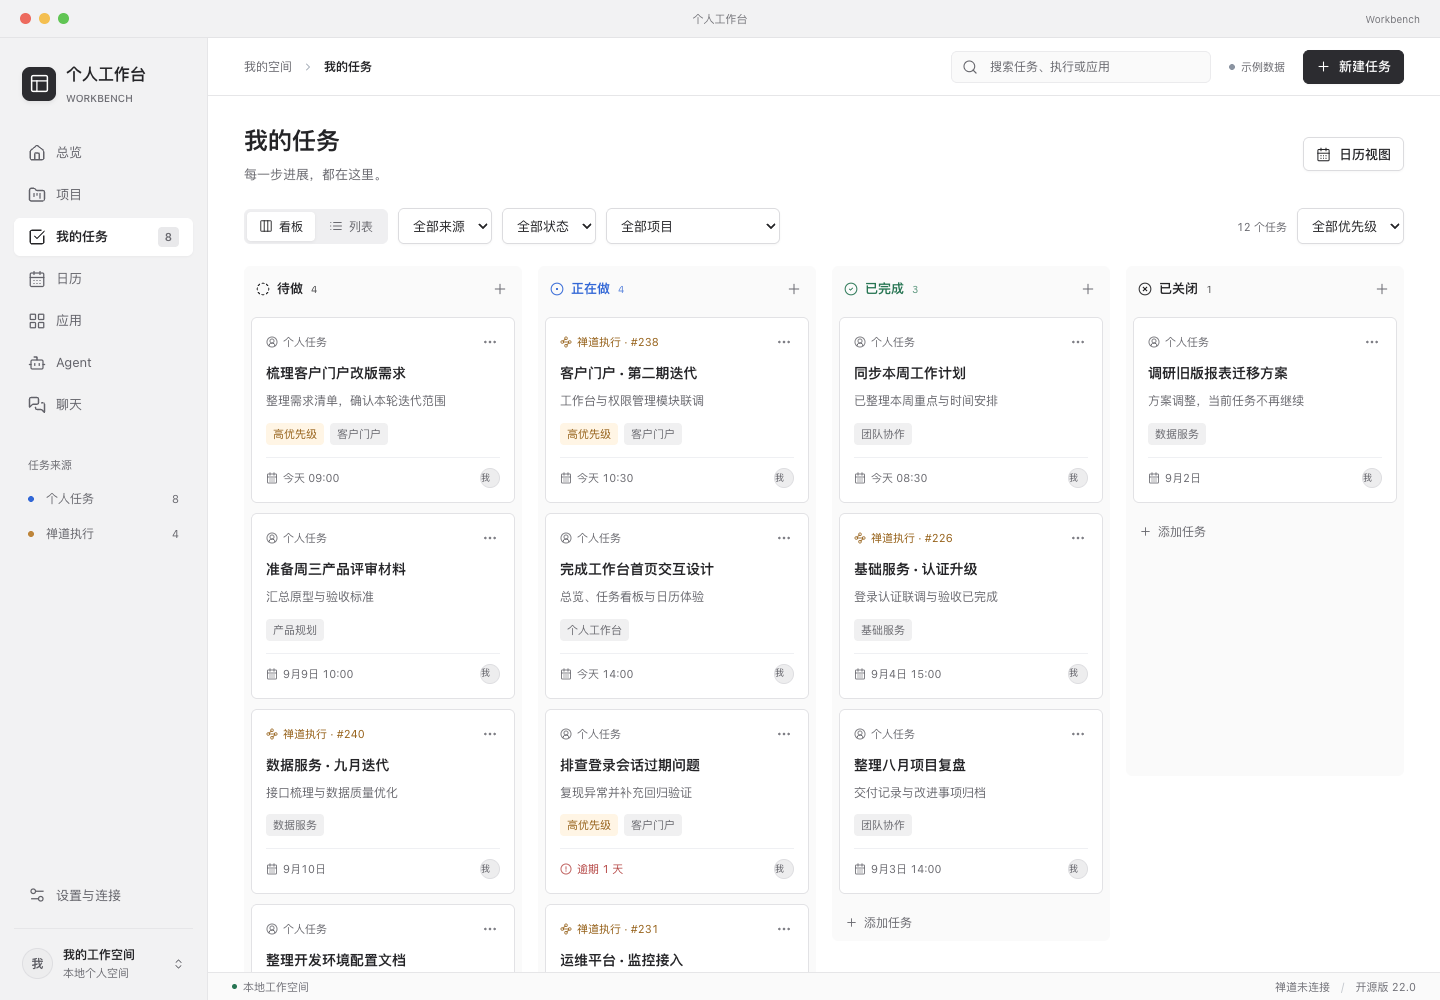
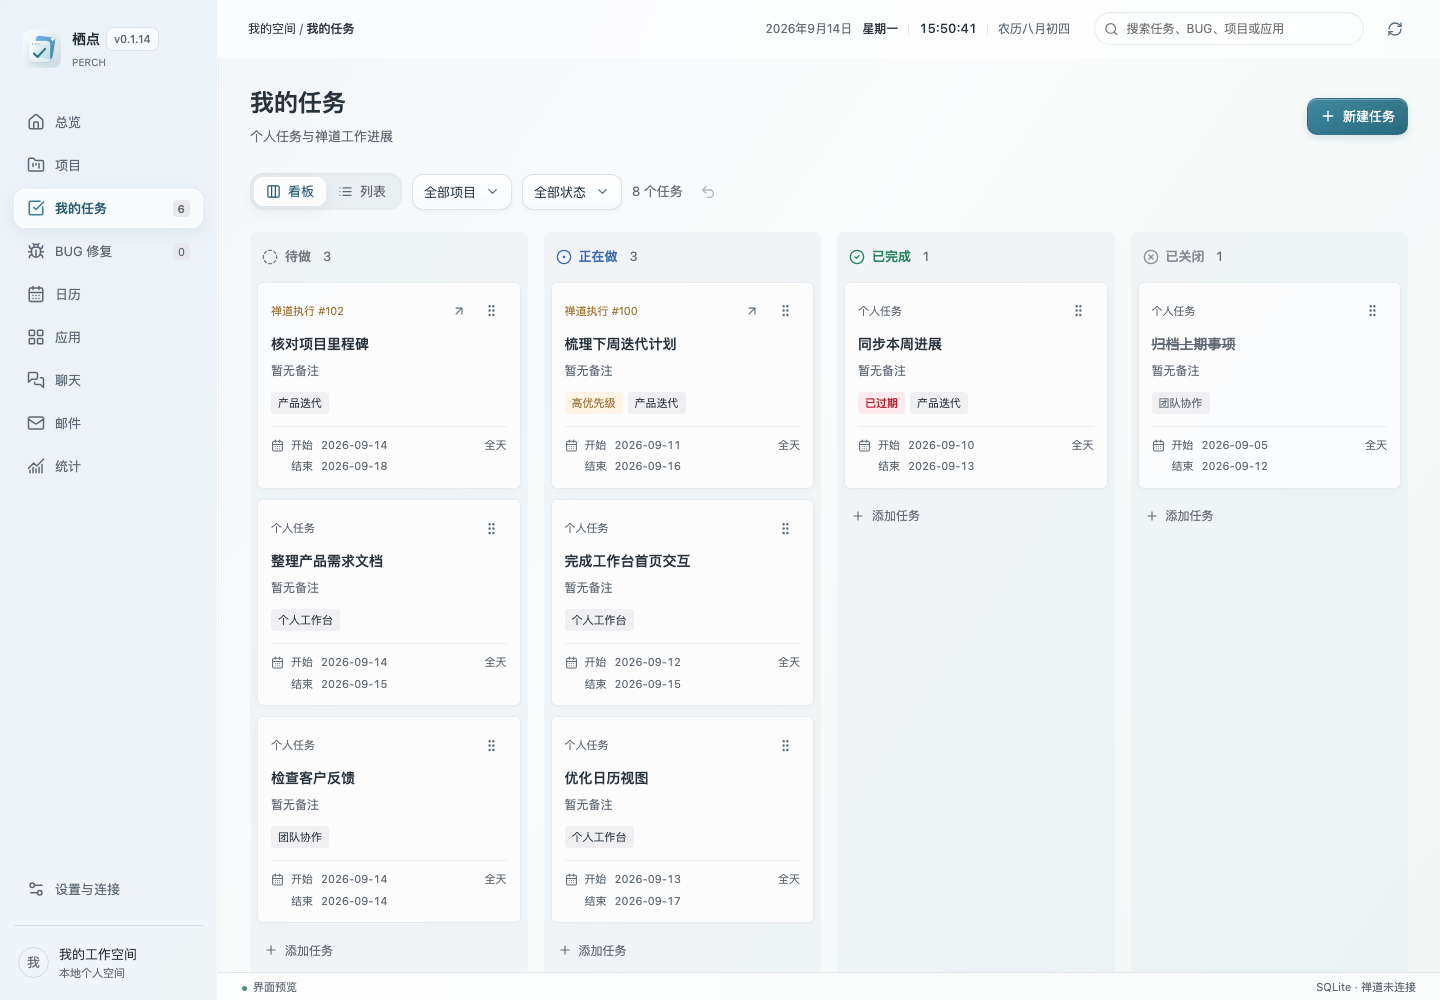
修复：宣传页展示当前应用界面截图

diff --git a/docs/styles.css b/docs/styles.css
@@ -1,3 +1,5 @@
 @import url('https://fonts.googleapis.com/css2?family=DM+Sans:wght@400;500;600;700&family=Noto+Sans+SC:wght@400;500;600;700&display=swap');
-:root{--bg:#f4f6f5;--surface:rgba(255,255,255,.72);--ink:#142321;--muted:#60716d;--line:#dbe4e1;--accent:#167d73;--accent-2:#dff1eb;--shadow:0 24px 70px rgba(25,60,55,.13)}*{box-sizing:border-box}html{scroll-behavior:smooth}body{margin:0;background:var(--bg);color:var(--ink);font-family:'DM Sans','Noto Sans SC',sans-serif;line-height:1.6}body:before{content:'';position:fixed;inset:0;pointer-events:none;background:radial-gradient(circle at 80% 4%,rgba(150,216,198,.28),transparent 35%),radial-gradient(circle at 0 48%,rgba(210,231,225,.34),transparent 32%)}a{color:inherit;text-decoration:none}.site-header{position:sticky;top:0;z-index:10;height:76px;padding:0 clamp(20px,5vw,80px);display:flex;align-items:center;justify-content:space-between;background:rgba(244,246,245,.78);backdrop-filter:blur(18px);border-bottom:1px solid var(--line)}.brand{display:flex;align-items:center;gap:10px}.brand img{width:31px;height:31px}.brand b{display:block;font-size:16px;line-height:1.1}.brand small{display:block;color:var(--muted);font-size:9px;letter-spacing:.18em}nav{display:flex;align-items:center;gap:28px;font-size:13px;color:var(--muted)}nav a:hover,.text-link:hover,footer a:hover{color:var(--accent)}nav .github{color:var(--ink);font-weight:600}.theme-toggle{border:1px solid var(--line);border-radius:50%;background:var(--surface);width:34px;height:34px;color:var(--muted);cursor:pointer;font-size:16px}.hero{min-height:calc(100svh - 76px);padding:clamp(55px,9vw,130px) clamp(20px,7vw,110px);display:grid;grid-template-columns:minmax(280px,.8fr) minmax(400px,1.2fr);gap:6vw;align-items:center}.eyebrow{font-size:11px;letter-spacing:.19em;color:var(--accent);font-weight:700;margin:0 0 22px}.hero h1{font-size:clamp(42px,5.5vw,82px);letter-spacing:-.065em;line-height:1.08;margin:0 0 25px;max-width:650px}.hero h1 em,.download h2 em{font-style:normal;color:var(--accent)}.lede{font-size:18px;color:var(--muted);max-width:470px}.hero-actions{display:flex;gap:11px;margin:34px 0 14px}.button{display:inline-flex;align-items:center;justify-content:center;gap:10px;min-height:46px;padding:0 20px;border-radius:9px;font-size:13px;font-weight:600;border:1px solid var(--line);transition:transform .2s,box-shadow .2s}.button:hover{transform:translateY(-2px);box-shadow:0 10px 25px rgba(22,80,70,.12)}.button.primary{background:var(--accent);color:#fff;border-color:var(--accent)}.button.quiet{background:rgba(255,255,255,.45)}.microcopy{font-size:11px;color:var(--muted)}.hero-visual{position:relative;min-height:530px;display:flex;align-items:center;justify-content:center}.glow{position:absolute;width:75%;height:75%;border-radius:50%;background:radial-gradient(circle,rgba(100,191,165,.35),transparent 68%);filter:blur(25px)}.window-frame{position:relative;width:min(100%,690px);border:1px solid rgba(255,255,255,.9);border-radius:17px;background:var(--surface);box-shadow:var(--shadow);overflow:hidden;transform:rotate(2deg);animation:float 6s ease-in-out infinite}.window-bar{height:39px;display:flex;align-items:center;gap:6px;padding:0 15px;border-bottom:1px solid var(--line);font-size:10px;color:var(--muted)}.window-bar i{width:8px;height:8px;border-radius:50%;background:#d5dfdc}.window-bar span{margin-left:12px}.window-bar b{margin-left:auto;font-weight:500}.window-frame img{display:block;width:100%;height:auto}.float-note{position:absolute;right:-4%;bottom:7%;padding:17px 20px;border:1px solid rgba(255,255,255,.9);border-radius:12px;background:rgba(255,255,255,.8);box-shadow:var(--shadow);backdrop-filter:blur(16px)}.float-note span,.float-note small{display:block;color:var(--muted);font-size:11px}.float-note strong{display:block;color:var(--accent);font-size:28px;line-height:1.2}.intro{padding:145px 20px 125px;max-width:780px;margin:auto}.intro h2,.section-heading h2,.workflow h2,.download h2{font-size:clamp(35px,4.5vw,61px);line-height:1.1;letter-spacing:-.055em;margin:0 0 23px}.intro>p:last-child{font-size:18px;color:var(--muted);max-width:520px}.feature-section,.screens{padding:90px clamp(20px,7vw,110px)}.section-heading{display:flex;align-items:end;justify-content:space-between;gap:25px;margin-bottom:55px}.section-heading h2{max-width:650px;margin:0}.feature-grid{display:grid;grid-template-columns:repeat(3,1fr);border-top:1px solid var(--line)}.feature-grid article{padding:27px 26px 30px 0;border-bottom:1px solid var(--line);min-height:190px}.feature-grid article:nth-child(3n+2),.feature-grid article:nth-child(3n+3){padding-left:26px;border-left:1px solid var(--line)}.feature-grid span{color:var(--accent);font-size:12px}.feature-grid h3{font-size:20px;margin:22px 0 7px}.feature-grid p,.workflow-copy>p,.download>div>p:last-child{color:var(--muted);font-size:14px;max-width:330px}.workflow{margin:90px 0;padding:95px clamp(20px,10vw,160px);display:grid;grid-template-columns:1fr 1fr;gap:9vw;align-items:center;background:var(--ink);color:#eaf4f0}.workflow-copy>p{color:#9db3ad}.workflow .eyebrow{color:#8dd1bf}.text-link{display:inline-block;margin-top:22px;color:#9ee1d0;font-size:13px}.workflow-art{position:relative;width:min(100%,470px);aspect-ratio:1;border:1px solid rgba(200,240,228,.22);border-radius:50%}.orbit{position:absolute;border:1px solid rgba(200,240,228,.2);border-radius:50%;inset:14%}.orbit-b{inset:29%}.orbit-core{position:absolute;inset:40%;display:grid;place-items:center;border-radius:50%;background:#dff1eb;box-shadow:0 0 55px rgba(130,220,192,.3)}.orbit-core img{width:52%;height:52%}.orbit-label{position:absolute;padding:7px 12px;border-radius:20px;background:rgba(255,255,255,.1);font-size:11px;color:#c4ddd6}.label-a{top:5%;left:45%}.label-b{right:3%;top:48%}.label-c{bottom:5%;left:42%}.label-d{left:2%;top:48%}.screen-showcase{display:grid;grid-template-columns:1.45fr 1fr;gap:18px}.screen-showcase figure{margin:0}.screen-showcase img{display:block;width:100%;border:1px solid var(--line);border-radius:13px;box-shadow:0 12px 35px rgba(30,60,55,.09)}figcaption{padding:15px 2px;display:flex;justify-content:space-between;gap:10px;font-size:12px}figcaption span{color:var(--muted)}.screen-stack{display:grid;gap:18px}.screen-stack img{aspect-ratio:1.4;object-fit:cover}.download{margin:80px clamp(20px,7vw,110px) 120px;padding:75px 8%;display:grid;grid-template-columns:1fr 1fr;gap:8vw;align-items:center;background:var(--accent-2);border-radius:20px}.download h2{font-size:clamp(34px,4vw,56px)}.download-panel{padding:26px;border-left:1px solid rgba(22,125,115,.25)}.release-status{font-size:13px;color:var(--muted);margin-bottom:22px}.download-actions{display:flex;gap:10px;flex-wrap:wrap}.button.secondary{background:#fff;color:var(--ink)}.button.disabled{opacity:.45;pointer-events:none}.release-link{display:inline-block;margin-top:18px;color:var(--accent);font-size:12px}footer{padding:38px clamp(20px,7vw,110px);border-top:1px solid var(--line);display:flex;align-items:center;gap:30px;color:var(--muted);font-size:12px}footer .brand{color:var(--ink)}footer p{margin-right:auto}footer div:last-of-type{display:flex;gap:18px}@keyframes float{0%,100%{transform:rotate(2deg) translateY(0)}50%{transform:rotate(1deg) translateY(-10px)}@media(prefers-reduced-motion:reduce){html{scroll-behavior:auto}.window-frame{animation:none}}.dark{--bg:#111a18;--surface:rgba(28,42,39,.8);--ink:#eaf4f0;--muted:#9cb3ac;--line:#2d403b;--accent:#79cbbb;--accent-2:#193b35;--shadow:0 24px 70px rgba(0,0,0,.35)}.dark .site-header{background:rgba(17,26,24,.8)}.dark .button.secondary,.dark .float-note{background:#243933;color:var(--ink)}
+:root{--bg:#f4f6f5;--surface:rgba(255,255,255,.72);--ink:#142321;--muted:#60716d;--line:#dbe4e1;--accent:#167d73;--accent-2:#dff1eb;--shadow:0 24px 70px rgba(25,60,55,.13)}*{box-sizing:border-box}html{scroll-behavior:smooth}body{margin:0;background:var(--bg);color:var(--ink);font-family:'DM Sans','Noto Sans SC',sans-serif;line-height:1.6}body:before{content:'';position:fixed;inset:0;pointer-events:none;background:radial-gradient(circle at 80% 4%,rgba(150,216,198,.28),transparent 35%),radial-gradient(circle at 0 48%,rgba(210,231,225,.34),transparent 32%)}a{color:inherit;text-decoration:none}.site-header{position:sticky;top:0;z-index:10;height:76px;padding:0 clamp(20px,5vw,80px);display:flex;align-items:center;justify-content:space-between;background:rgba(244,246,245,.78);backdrop-filter:blur(18px);border-bottom:1px solid var(--line)}.brand{display:flex;align-items:center;gap:10px}.brand img{width:31px;height:31px}.brand b{display:block;font-size:16px;line-height:1.1}.brand small{display:block;color:var(--muted);font-size:9px;letter-spacing:.18em}nav{display:flex;align-items:center;gap:28px;font-size:13px;color:var(--muted)}nav a:hover,.text-link:hover,footer a:hover{color:var(--accent)}nav .github{color:var(--ink);font-weight:600}.theme-toggle{border:1px solid var(--line);border-radius:50%;background:var(--surface);width:34px;height:34px;color:var(--muted);cursor:pointer;font-size:16px}.hero{min-height:calc(100svh - 76px);padding:clamp(55px,9vw,130px) clamp(20px,7vw,110px);display:grid;grid-template-columns:minmax(280px,.8fr) minmax(400px,1.2fr);gap:6vw;align-items:center}.eyebrow{font-size:11px;letter-spacing:.19em;color:var(--accent);font-weight:700;margin:0 0 22px}.hero h1{font-size:clamp(42px,5.5vw,82px);letter-spacing:-.065em;line-height:1.08;margin:0 0 25px;max-width:650px}.hero h1 em,.download h2 em{font-style:normal;color:var(--accent)}.lede{font-size:18px;color:var(--muted);max-width:470px}.hero-actions{display:flex;gap:11px;margin:34px 0 14px}.button{display:inline-flex;align-items:center;justify-content:center;gap:10px;min-height:46px;padding:0 20px;border-radius:9px;font-size:13px;font-weight:600;border:1px solid var(--line);transition:transform .2s,box-shadow .2s}.button:hover{transform:translateY(-2px);box-shadow:0 10px 25px rgba(22,80,70,.12)}.button.primary{background:var(--accent);color:#fff;border-color:var(--accent)}.button.quiet{background:rgba(255,255,255,.45)}.microcopy{font-size:11px;color:var(--muted)}.hero-visual{position:relative;min-height:530px;display:flex;align-items:center;justify-content:center}.glow{position:absolute;width:75%;height:75%;border-radius:50%;background:radial-gradient(circle,rgba(100,191,165,.35),transparent 68%);filter:blur(25px)}.window-frame{position:relative;width:min(100%,690px);border:1px solid rgba(255,255,255,.9);border-radius:17px;background:var(--surface);box-shadow:var(--shadow);overflow:hidden;transform:rotate(2deg);animation:float 6s ease-in-out infinite}.window-bar{height:39px;display:flex;align-items:center;gap:6px;padding:0 15px;border-bottom:1px solid var(--line);font-size:10px;color:var(--muted)}.window-bar i{width:8px;height:8px;border-radius:50%;background:#d5dfdc}.window-bar span{margin-left:12px}.window-bar b{margin-left:auto;font-weight:500}.window-frame img{display:block;width:100%;height:auto}.float-note{position:absolute;right:-4%;bottom:7%;padding:17px 20px;border:1px solid rgba(255,255,255,.9);border-radius:12px;background:rgba(255,255,255,.8);box-shadow:var(--shadow);backdrop-filter:blur(16px)}.float-note span,.float-note small{display:block;color:var(--muted);font-size:11px}.float-note strong{display:block;color:var(--accent);font-size:28px;line-height:1.2}.intro{padding:145px 20px 125px;max-width:780px;margin:auto}.intro h2,.section-heading h2,.workflow h2,.download h2{font-size:clamp(35px,4.5vw,61px);line-height:1.1;letter-spacing:-.055em;margin:0 0 23px}.intro>p:last-child{font-size:18px;color:var(--muted);max-width:520px}.feature-section,.screens{padding:90px clamp(20px,7vw,110px)}.section-heading{display:flex;align-items:end;justify-content:space-between;gap:25px;margin-bottom:55px}.section-heading h2{max-width:650px;margin:0}.feature-grid{display:grid;grid-template-columns:repeat(3,1fr);border-top:1px solid var(--line)}.feature-grid article{padding:27px 26px 30px 0;border-bottom:1px solid var(--line);min-height:190px}.feature-grid article:nth-child(3n+2),.feature-grid article:nth-child(3n+3){padding-left:26px;border-left:1px solid var(--line)}.feature-grid span{color:var(--accent);font-size:12px}.feature-grid h3{font-size:20px;margin:22px 0 7px}.feature-grid p,.workflow-copy>p,.download>div>p:last-child{color:var(--muted);font-size:14px;max-width:330px}.workflow{margin:90px 0;padding:95px clamp(20px,10vw,160px);display:grid;grid-template-columns:1fr 1fr;gap:9vw;align-items:center;background:var(--ink);color:#eaf4f0}.workflow-copy>p{color:#9db3ad}.workflow .eyebrow{color:#8dd1bf}.text-link{display:inline-block;margin-top:22px;color:#9ee1d0;font-size:13px}.workflow-art{position:relative;width:min(100%,470px);aspect-ratio:1;border:1px solid rgba(200,240,228,.22);border-radius:50%}.orbit{position:absolute;border:1px solid rgba(200,240,228,.2);border-radius:50%;inset:14%}.orbit-b{inset:29%}.orbit-core{position:absolute;inset:40%;display:grid;place-items:center;border-radius:50%;background:#dff1eb;box-shadow:0 0 55px rgba(130,220,192,.3)}.orbit-core img{width:52%;height:52%}.orbit-label{position:absolute;padding:7px 12px;border-radius:20px;background:rgba(255,255,255,.1);font-size:11px;color:#c4ddd6}.label-a{top:5%;left:45%}.label-b{right:3%;top:48%}.label-c{bottom:5%;left:42%}.label-d{left:2%;top:48%}.screen-showcase{display:grid;grid-template-columns:1.45fr 1fr;gap:18px}.screen-showcase figure{margin:0}.screen-showcase img{display:block;width:100%;border:1px solid var(--line);border-radius:13px;box-shadow:0 12px 35px rgba(30,60,55,.09)}figcaption{padding:15px 2px;display:flex;justify-content:space-between;gap:10px;font-size:12px}figcaption span{color:var(--muted)}.screen-stack{display:grid;gap:18px}.screen-stack img{aspect-ratio:1.4;object-fit:cover}.download{margin:80px clamp(20px,7vw,110px) 120px;padding:75px 8%;display:grid;grid-template-columns:1fr 1fr;gap:8vw;align-items:center;background:var(--accent-2);border-radius:20px}.download h2{font-size:clamp(34px,4vw,56px)}.download-panel{padding:26px;border-left:1px solid rgba(22,125,115,.25)}.release-status{font-size:13px;color:var(--muted);margin-bottom:22px}.download-actions{display:flex;gap:10px;flex-wrap:wrap}.button.secondary{background:#fff;color:var(--ink)}.button.disabled{opacity:.45;pointer-events:none}.release-link{display:inline-block;margin-top:18px;color:var(--accent);font-size:12px}footer{padding:38px clamp(20px,7vw,110px);border-top:1px solid var(--line);display:flex;align-items:center;gap:30px;color:var(--muted);font-size:12px}footer .brand{color:var(--ink)}footer p{margin-right:auto}footer div:last-of-type{display:flex;gap:18px}@keyframes float{0%,100%{transform:rotate(2deg) translateY(0)}50%{transform:rotate(1deg) translateY(-10px)}}@media(prefers-reduced-motion:reduce){html{scroll-behavior:auto}.window-frame{animation:none}}.dark{--bg:#111a18;--surface:rgba(28,42,39,.8);--ink:#eaf4f0;--muted:#9cb3ac;--line:#2d403b;--accent:#79cbbb;--accent-2:#193b35;--shadow:0 24px 70px rgba(0,0,0,.35)}.dark .site-header{background:rgba(17,26,24,.8)}.dark .button.secondary,.dark .float-note{background:#243933;color:var(--ink)}
 @media(max-width:800px){nav{display:none}.site-header{height:64px}.hero{grid-template-columns:1fr;padding-top:65px;min-height:auto}.hero h1{font-size:45px}.hero-visual{min-height:300px}.float-note{right:0;bottom:0}.intro{padding:100px 20px 80px}.feature-grid{grid-template-columns:1fr}.feature-grid article,.feature-grid article:nth-child(3n+2),.feature-grid article:nth-child(3n+3){padding:25px 0;border-left:0}.workflow{grid-template-columns:1fr;padding:70px 20px}.workflow-art{margin:10px auto 0}.screen-showcase,.download{grid-template-columns:1fr}.download{margin-left:20px;margin-right:20px;padding:45px 25px;gap:35px}.download-panel{border-left:0;border-top:1px solid rgba(22,125,115,.25);padding:25px 0 0}footer{flex-wrap:wrap;gap:15px}footer p{width:100%;order:3;margin:0}.section-heading{display:block}}
+.screen-strip{display:grid;grid-template-columns:repeat(4,minmax(0,1fr));gap:18px;margin-top:28px}.screen-strip figure{margin:0;min-width:0}.screen-strip img{display:block;width:100%;aspect-ratio:1.55;object-fit:cover;border:1px solid var(--line);border-radius:13px;box-shadow:0 10px 28px rgba(30,60,55,.07)}
+@media(max-width:800px){.screen-strip{grid-template-columns:repeat(2,minmax(0,1fr));gap:16px}}

diff --git a/docs/index.html b/docs/index.html
@@ -4,10 +4,10 @@
 <body>
 <header class="site-header"><a class="brand" href="#top"><img src="assets/perch-logo.svg" alt="栖点 Logo"><span><b>栖点</b><small>PERCH</small></span></a><nav aria-label="主导航"><a href="#features">能力</a><a href="#workflow">工作方式</a><a href="#screens">界面</a><a href="#download">下载</a><a class="github" href="https://github.com/tangjiale/perch" target="_blank" rel="noreferrer">GitHub ↗</a></nav><button class="theme-toggle" id="theme-toggle" aria-label="切换深色模式">◐</button></header>
 <main id="top">
-<section class="hero"><div class="hero-copy"><p class="eyebrow">PERSONAL WORKSPACE · PERCH</p><h1>把每天的工作，<em>安放在一个栖点。</em></h1><p class="lede">任务、项目、日历、禅道和 AI 助手，在一个安静清晰的工作台里自然衔接。</p><div class="hero-actions"><a class="button primary" href="#download">下载栖点 <span>↓</span></a><a class="button quiet" href="https://github.com/tangjiale/perch" target="_blank" rel="noreferrer">查看源码 ↗</a></div><p class="microcopy">macOS · Windows · 本地优先</p></div><div class="hero-visual"><div class="glow"></div><div class="window-frame"><div class="window-bar"><i></i><i></i><i></i><span>栖点 · Perch</span><b>09:41</b></div><img src="assets/screenshot-overview.png" alt="栖点总览界面预览"></div><div class="float-note"><span>今日进度</span><strong>76%</strong><small>4 项任务已完成</small></div></div></section>
+<section class="hero"><div class="hero-copy"><p class="eyebrow">PERSONAL WORKSPACE · PERCH</p><h1>把每天的工作，<em>安放在一个栖点。</em></h1><p class="lede">任务、项目、日历、禅道和 AI 助手，在一个安静清晰的工作台里自然衔接。</p><div class="hero-actions"><a class="button primary" href="#download">下载栖点 <span>↓</span></a><a class="button quiet" href="https://github.com/tangjiale/perch" target="_blank" rel="noreferrer">查看源码 ↗</a></div><p class="microcopy">macOS · Windows · 本地优先</p></div><div class="hero-visual"><div class="window-frame"><img src="assets/screenshot-overview.png" alt="栖点当前版本总览界面预览"></div></div></section>
 <section class="intro"><p class="eyebrow">ONE PLACE TO WORK</p><h2>少一点切换，<br>多一点专注。</h2><p>栖点把分散在工具、网页和聊天里的工作信息收拢起来，让你随时知道下一步该做什么。</p></section>
 <section class="feature-section" id="features"><div class="section-heading"><p class="eyebrow">CAPABILITIES</p><h2>为真实工作设计的每一处细节</h2></div><div class="feature-grid"><article><span>01</span><h3>任务与看板</h3><p>从待做、正在做，到完成和关闭。拖动就能调整状态与顺序，开始和结束时间清晰可见。</p></article><article><span>02</span><h3>项目与禅道</h3><p>同步与你有关的禅道项目、执行和 BUG，保留远端关联，也留出个人安排的自由。</p></article><article><span>03</span><h3>日历与节奏</h3><p>月、周、日视图统一呈现任务，农历、节气、法定休假和调休一目了然。</p></article><article><span>04</span><h3>AI 工作伙伴</h3><p>创建不同 Agent，选择模型、技能和知识库，在同一个聊天空间里开始工作。</p></article><article><span>05</span><h3>知识与技能</h3><p>上传文档建立知识库，导入本机技能，让常用方法随时可被调用。</p></article><article><span>06</span><h3>连接与洞察</h3><p>管理邮箱、MCP 和模型供应商，用统计图表看见工作负荷与推进趋势。</p></article></div></section>
 <section class="workflow" id="workflow"><div class="workflow-copy"><p class="eyebrow">A CALM FLOW</p><h2>从今天开始，<br>工作有了落脚点。</h2><p>打开总览，查看今天的安排；进入看板推进任务；在日历里感受节奏；需要时，让 AI 和知识库帮你继续向前。</p><a href="#screens" class="text-link">看看界面怎么工作 ↘</a></div><div class="workflow-art"><div class="orbit orbit-a"></div><div class="orbit orbit-b"></div><div class="orbit-core"><img src="assets/perch-logo.svg" alt=""></div><div class="orbit-label label-a">任务</div><div class="orbit-label label-b">项目</div><div class="orbit-label label-c">日历</div><div class="orbit-label label-d">AI</div></div></section>
-<section class="screens" id="screens"><div class="section-heading"><p class="eyebrow">INSIDE PERCH</p><h2>清晰，是一种效率。</h2></div><div class="screen-showcase"><figure class="screen-large"><img src="assets/screenshot-board.png" alt="任务看板界面"><figcaption><b>任务看板</b><span>把工作推进到下一列</span></figcaption></figure><div class="screen-stack"><figure><img src="assets/screenshot-calendar.png" alt="日历界面"><figcaption><b>日历</b><span>看见每天的节奏</span></figcaption></figure><figure><img src="assets/screenshot-chat.png" alt="聊天界面"><figcaption><b>AI 聊天</b><span>与合适的 Agent 对话</span></figcaption></figure></div></div></section>
+<section class="screens" id="screens"><div class="section-heading"><p class="eyebrow">INSIDE PERCH</p><h2>清晰，是一种效率。</h2></div><div class="screen-showcase"><figure class="screen-large"><img src="assets/screenshot-overview.png" alt="栖点总览界面"><figcaption><b>总览工作台</b><span>今天的任务与项目一眼可见</span></figcaption></figure><div class="screen-stack"><figure><img src="assets/screenshot-board.png" alt="任务看板界面"><figcaption><b>任务看板</b><span>把工作推进到下一列</span></figcaption></figure><figure><img src="assets/screenshot-calendar.png" alt="日历界面"><figcaption><b>日历</b><span>任务、农历与节假日同屏呈现</span></figcaption></figure></div></div><div class="screen-strip"><figure><img src="assets/screenshot-chat.png" alt="AI 聊天界面"><figcaption><b>AI 聊天</b><span>选择 Agent、模型和知识库</span></figcaption></figure><figure><img src="assets/screenshot-projects.png" alt="项目管理界面"><figcaption><b>项目管理</b><span>禅道项目与个人项目统一管理</span></figcaption></figure><figure><img src="assets/screenshot-statistics.png" alt="统计分析界面"><figcaption><b>统计分析</b><span>用图表看见工作推进趋势</span></figcaption></figure><figure><img src="assets/screenshot-settings.png" alt="设置与连接界面"><figcaption><b>设置与连接</b><span>模型、Agent、知识库和外部连接</span></figcaption></figure></div></section>
 <section class="download" id="download"><div><p class="eyebrow">GET PERCH</p><h2>让工作，回到<br><em>一个舒服的位置。</em></h2><p>免费、开源、本地优先。选择你的平台，开始使用栖点。</p></div><div class="download-panel"><div class="release-status" id="release-status">正在获取最新版本…</div><div class="download-actions"><a class="button primary disabled" id="mac-download" href="#">macOS 下载</a><a class="button secondary disabled" id="win-download" href="#">Windows 下载</a></div><a class="release-link" id="release-link" href="https://github.com/tangjiale/perch/releases" target="_blank" rel="noreferrer">查看全部 Release ↗</a></div></section>
 </main><footer><div class="brand"><img src="assets/perch-logo.svg" alt=""><span><b>栖点</b><small>PERCH</small></span></div><p>个人工作的智能落脚点</p><div><a href="https://github.com/tangjiale/perch" target="_blank" rel="noreferrer">GitHub</a><a href="https://github.com/tangjiale/perch/blob/master/README.md" target="_blank" rel="noreferrer">README</a></div><small>© 2026 Perch · MIT License</small></footer><script src="main.js"></script></body></html>

diff --git a/README.md b/README.md
@@ -6,6 +6,8 @@
 
 主页源码位于 `docs/`，推送到 `master` 后由 GitHub Actions 自动部署到 GitHub Pages，也支持在 Actions 中手动运行“发布宣传主页”。仓库 Settings → Pages 的 Source 选择 **GitHub Actions** 即可启用，无需购买域名。自定义域名可在 Pages 设置中绑定，后续只需按 GitHub 提供的 DNS 记录配置即可。
 
+主页产品截图由当前 Tauri React 应用界面生成，使用匿名示例数据，不包含个人工作空间信息。更新截图时应从当前 `src/` 界面重新截取，不使用 `ui/` 下的历史原型图片。
+
 本地预览宣传主页：
 
 ```sh
